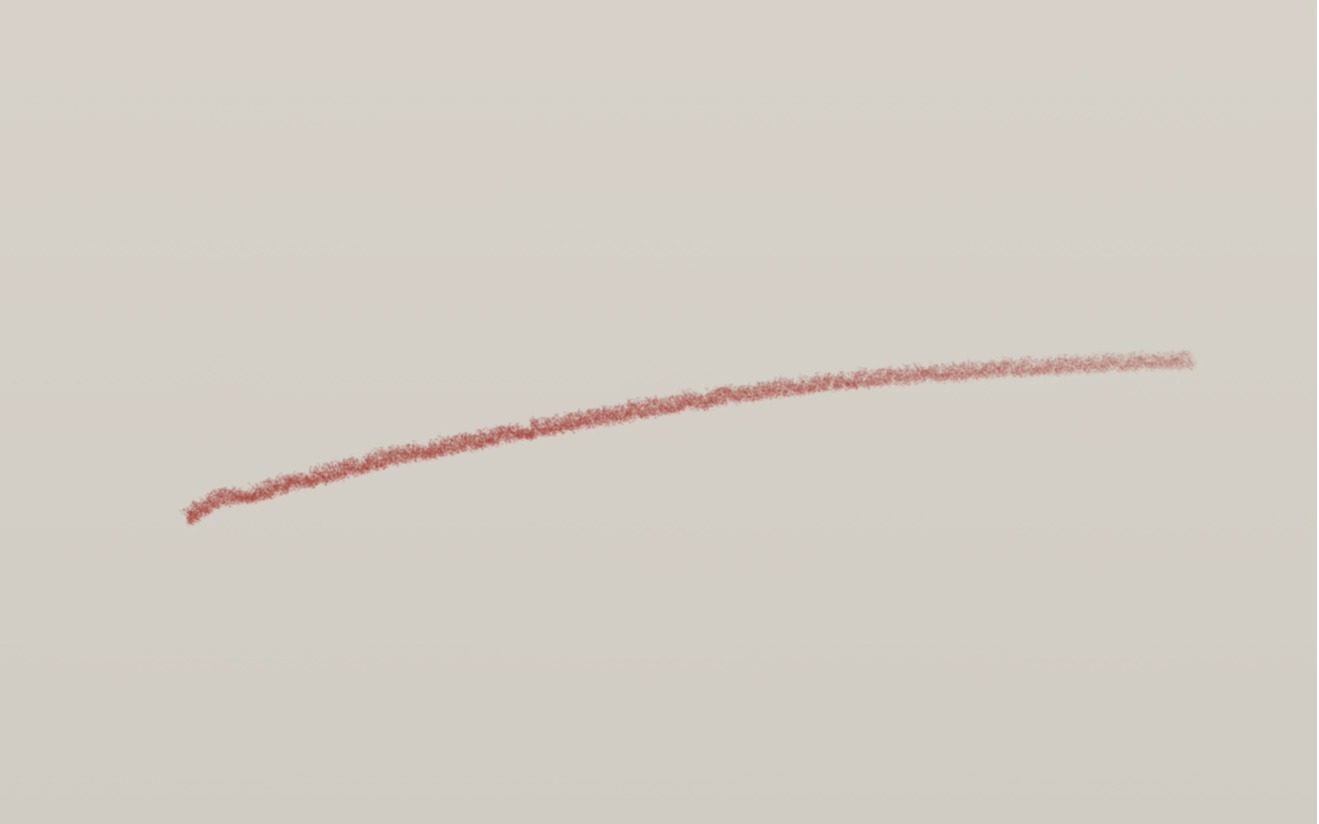
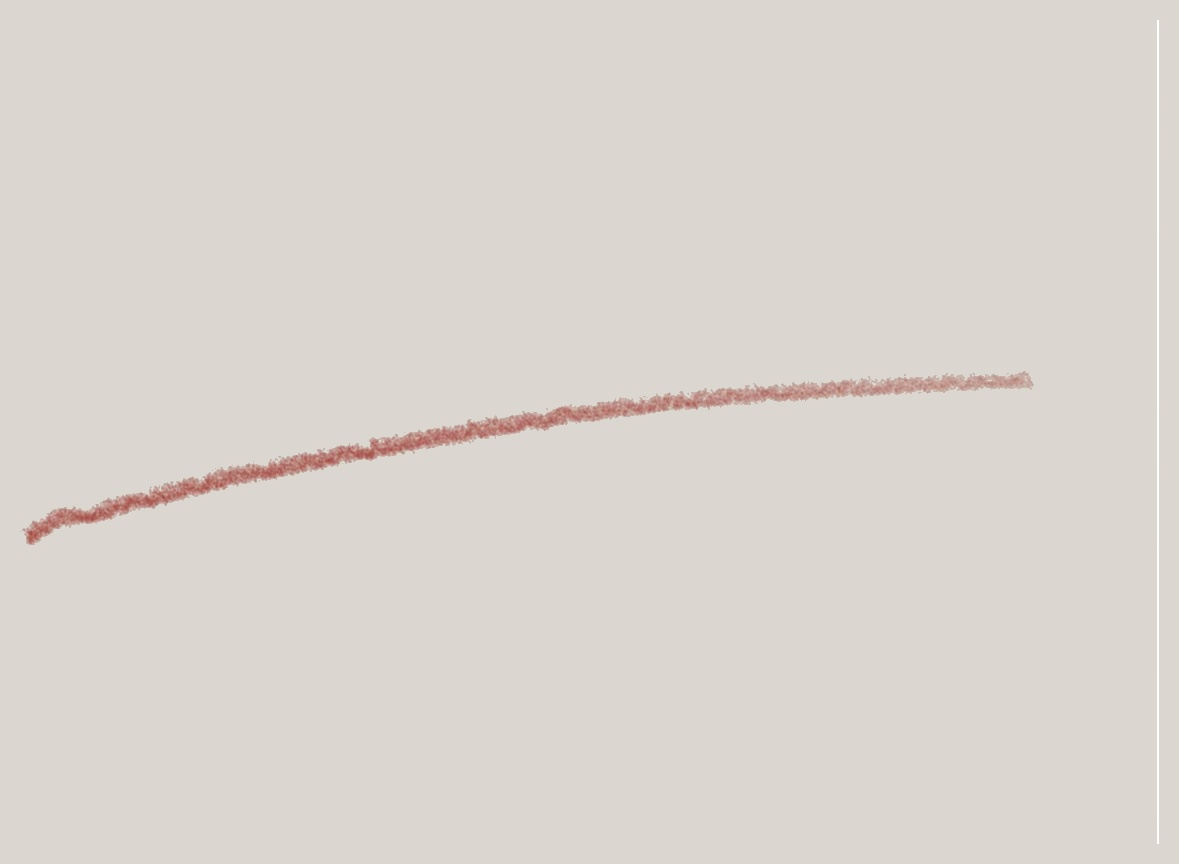
About layout: fewer middle images, wider text cols, blended red line; Gallery: Monochromatic rename/reorder, description fade fix

Changed region(s): [[0.0, 0.4248, 0.7328, 0.6371], [0.9771, 0.0303, 1.0, 0.9709], [0.7634, 0.4248, 0.916, 0.4551]]

diff --git a/assets/style.css b/assets/style.css
@@ -407,16 +407,23 @@ button { font-family: inherit; cursor: pointer; }
 
 .artwork-description-fade {
   position: absolute;
-  left: 0; right: 0; bottom: 34px;
-  height: 42px;
+  left: 0;
+  right: 0;
+  bottom: 0;
+  height: 24px;
   background: linear-gradient(to bottom, transparent, var(--bg-primary));
   pointer-events: none;
-  opacity: 1;
+  opacity: 0.55;
   transition: opacity 0.3s ease;
 }
 
 .artwork-description-fade.hidden {
   opacity: 0;
+}
+
+.artwork-description-first {
+  position: relative;
+  padding-bottom: 0.25rem;
 }
 
 .artwork-continue {
@@ -743,12 +750,15 @@ button { font-family: inherit; cursor: pointer; }
   align-items: center;
   justify-content: space-between;
   height: 100%;
+  min-height: 0;
 }
 
 .red-line-images img {
+  flex: 1 1 0;
+  min-height: 0;
   width: 100%;
-  max-width: 200px;
-  aspect-ratio: 3 / 4;
+  max-width: 260px;
+  aspect-ratio: auto;
   object-fit: cover;
   border-radius: 3px;
   border: 1px solid var(--frame);
@@ -756,78 +766,9 @@ button { font-family: inherit; cursor: pointer; }
   background: var(--frame-dark);
 }
 
-.about-redline-divider {
-  display: none;
-  width: 1px;
-  background: var(--frame);
-  opacity: 0.65;
-  align-self: stretch;
-  justify-self: center;
-}
-
-.red-line-closing-rule {
-  height: 22px;
-  width: min(100%, 320px);
-  margin: 1.5rem 0 0;
-  background-image: var(--hand-line);
-  background-repeat: no-repeat;
-  background-position: left bottom;
-  background-size: 100% 100%;
-  opacity: 0.95;
-}
-
-.about-redline-section h2 {
-  font-family: var(--font-display);
-  font-size: clamp(1.4rem, 3vw, 2rem);
-  margin-bottom: 1.25rem;
-  color: var(--text-primary);
-  letter-spacing: -0.04em;
-}
-
-.about-redline-section p {
-  color: var(--text-muted);
-  margin-bottom: 1rem;
-  font-weight: 300;
-}
-
-.about-redline-section .red-line-verse {
-  margin-top: auto;
-  padding-top: 1.25rem;
-}
-
-.red-line-closing-rule {
-  height: auto;
-  width: min(100%, 520px);
-  margin: 2rem auto 0 0;
-  position: relative;
-  background: transparent;
-}
-
-.red-line-closing-rule img {
-  display: block;
-  width: 100%;
-  max-height: 90px;
-  object-fit: contain;
-  object-position: left center;
-  opacity: 0.92;
-  mix-blend-mode: multiply;
-  filter: contrast(1.05);
-  background: transparent;
-}
-
-@media (max-width: 1099px) {
-  .red-line-closing-rule {
-    margin-left: auto;
-    margin-right: auto;
-  }
-  .red-line-closing-rule img {
-    object-position: center;
-  }
-}
-
 @media (min-width: 1100px) {
   .about-redline-section {
-    grid-template-columns: 1fr auto minmax(140px, 1fr) auto 1fr;
+    grid-template-columns: 1.25fr auto minmax(140px, 1fr) auto 1.25fr;
     gap: clamp(2rem, 4vw, 4rem);
     align-items: stretch;
   }
@@ -858,6 +799,67 @@ button { font-family: inherit; cursor: pointer; }
   .about-redline-section {
     text-align: center;
   }
+  .red-line-images img {
+    max-width: 320px;
+    aspect-ratio: 3 / 4;
+    flex: none;
+  }
+}
+
+.about-redline-divider {
+  display: none;
+  width: 1px;
+  background: var(--frame);
+  opacity: 0.65;
+  align-self: stretch;
+  justify-self: center;
+}
+
+.red-line-closing-rule {
+  height: auto;
+  width: min(100%, 520px);
+  margin: 2rem auto 0 0;
+  position: relative;
+  background: transparent;
+}
+
+.red-line-closing-rule img {
+  display: block;
+  width: 100%;
+  max-height: 90px;
+  object-fit: contain;
+  object-position: left center;
+  opacity: 0.92;
+  background: transparent;
+}
+
+@media (max-width: 1099px) {
+  .red-line-closing-rule {
+    margin-left: auto;
+    margin-right: auto;
+  }
+  .red-line-closing-rule img {
+    object-position: center;
+  }
+}
+
+.about-redline-section h2 {
+  font-family: var(--font-display);
+  font-size: clamp(1.4rem, 3vw, 2rem);
+  margin-bottom: 1.25rem;
+  color: var(--text-primary);
+  letter-spacing: -0.04em;
+}
+
+.about-redline-section p {
+  color: var(--text-muted);
+  margin-bottom: 1rem;
+  font-weight: 300;
+}
+
+.about-redline-section .red-line-verse {
+  margin-top: auto;
+  padding-top: 1.25rem;
 }
 
 .accent-link {

diff --git a/about.html b/about.html
@@ -4,7 +4,7 @@
   <meta charset="UTF-8" />
   <meta name="viewport" content="width=device-width, initial-scale=1.0" />
   <title>Errol Hendrickse — About & Enquire</title>
-  <link rel="stylesheet" href="assets/style.css?v=22" />
+  <link rel="stylesheet" href="assets/style.css?v=23" />
   <link rel="preconnect" href="https://fonts.googleapis.com" />
   <link rel="preconnect" href="https://fonts.gstatic.com" crossorigin />
   <link href="https://fonts.googleapis.com/css2?family=Inter:wght@300;400;500;600&family=Montserrat:wght@400;500;600;700;800;900&family=Nunito:wght@300;400;600;700&display=swap" rel="stylesheet" />
@@ -31,9 +31,7 @@
       </div>
       <div class="about-redline-divider" aria-hidden="true"></div>
       <div class="red-line-images" aria-hidden="true">
-        <img src="artworks/Liberty/lb1.jpg" alt="" loading="lazy" />
         <img src="artworks/Liberty/lb2.jpg" alt="" loading="lazy" />
-        <img src="artworks/Liberty/lb3.jpg" alt="" loading="lazy" />
         <img src="artworks/Liberty/lb4.jpg" alt="" loading="lazy" />
       </div>
       <div class="about-redline-divider" aria-hidden="true"></div>

diff --git a/gallery.html b/gallery.html
@@ -4,7 +4,7 @@
   <meta charset="UTF-8" />
   <meta name="viewport" content="width=device-width, initial-scale=1.0" />
   <title>Errol Hendrickse — Art Gallery</title>
-  <link rel="stylesheet" href="assets/style.css?v=22" />
+  <link rel="stylesheet" href="assets/style.css?v=23" />
   <link rel="preconnect" href="https://fonts.googleapis.com" />
   <link rel="preconnect" href="https://fonts.gstatic.com" crossorigin />
   <link href="https://fonts.googleapis.com/css2?family=Inter:wght@300;400;500;600&family=Montserrat:wght@400;500;600;700;800;900&family=Nunito:wght@300;400;600;700&display=swap" rel="stylesheet" />
@@ -79,7 +79,7 @@
     <iframe title="Rickroll" src="" allow="accelerometer; autoplay; clipboard-write; encrypted-media; gyroscope; picture-in-picture; web-share" allowfullscreen></iframe>
   </div>
 
-  <script src="assets/gallery.js?v=10"></script>
+  <script src="assets/gallery.js?v=11"></script>
   <script src="assets/rickroll.js"></script>
 </body>
 </html>
